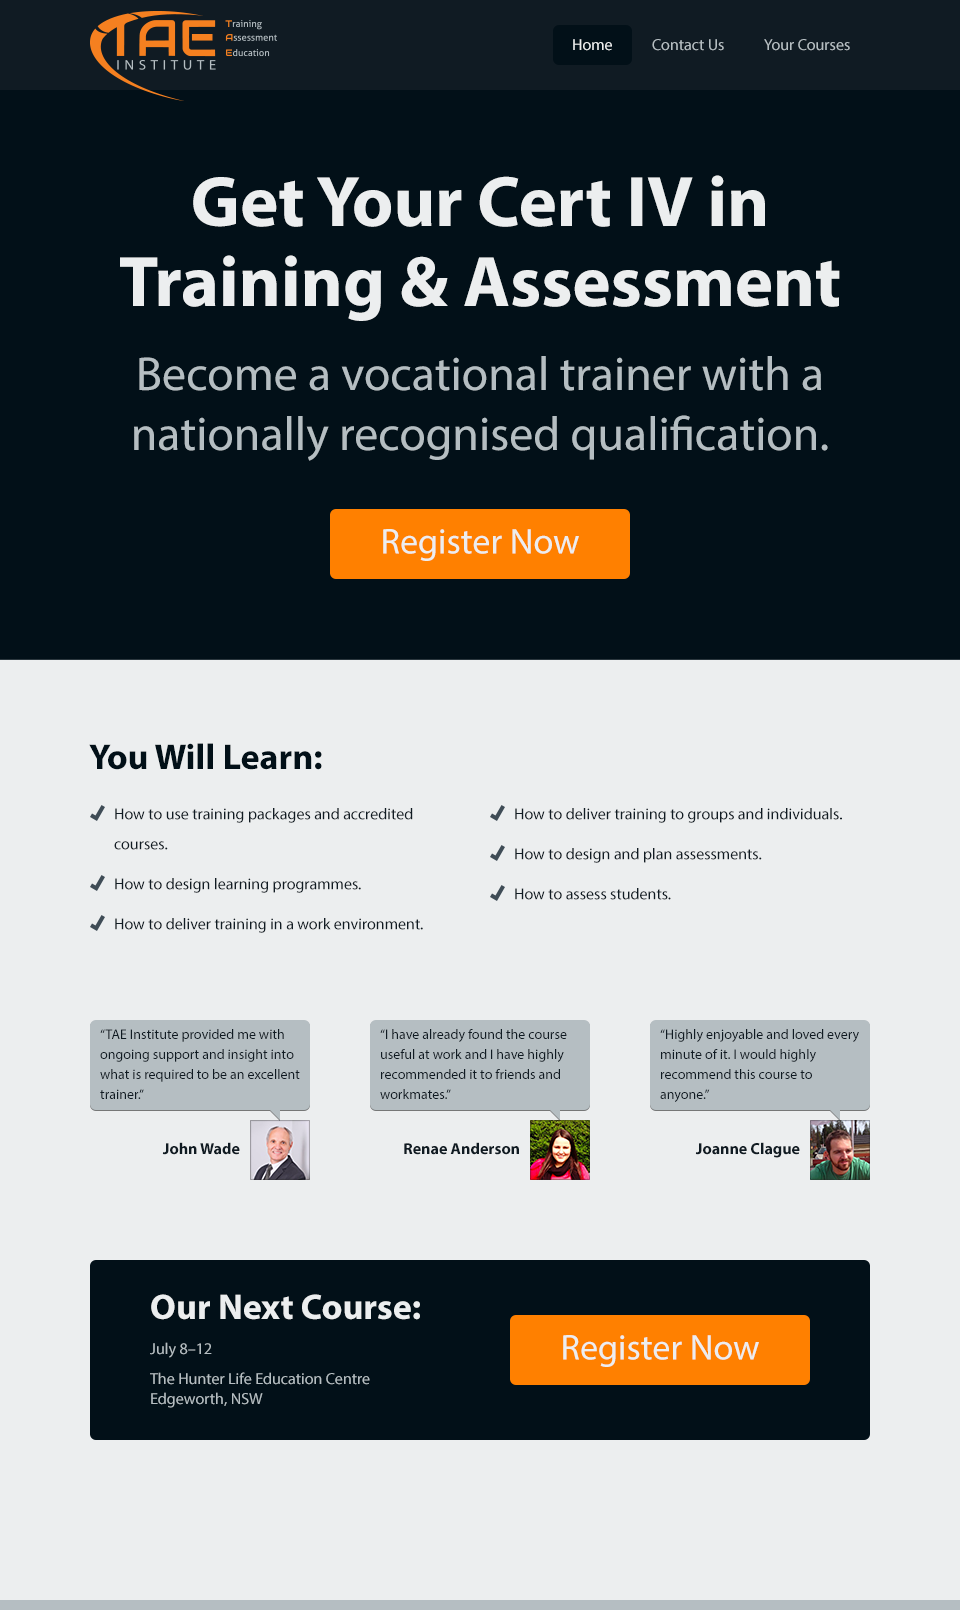
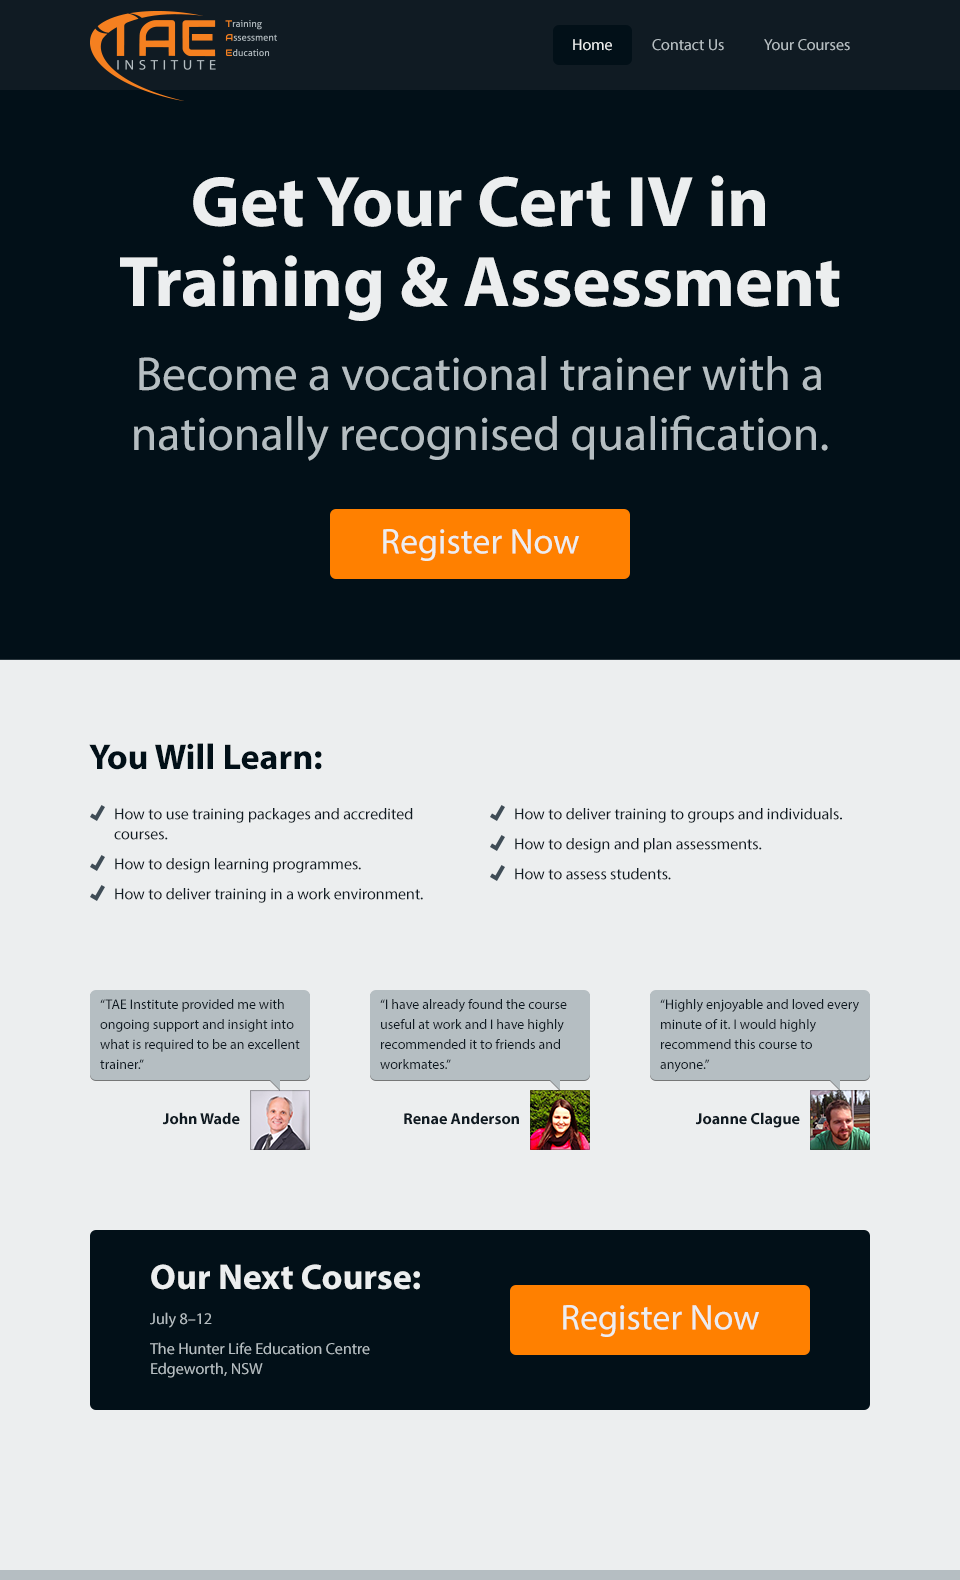
Neatened up typography.

diff --git a/v2/index.html b/v2/index.html
@@ -11,4 +11,4 @@ img {
     margin: 0 auto;
 }
 </style>
-<img src="content.png" width="960" height="1610" alt="" />
+<img src="content.png" width="960" height="1580" alt="" />
